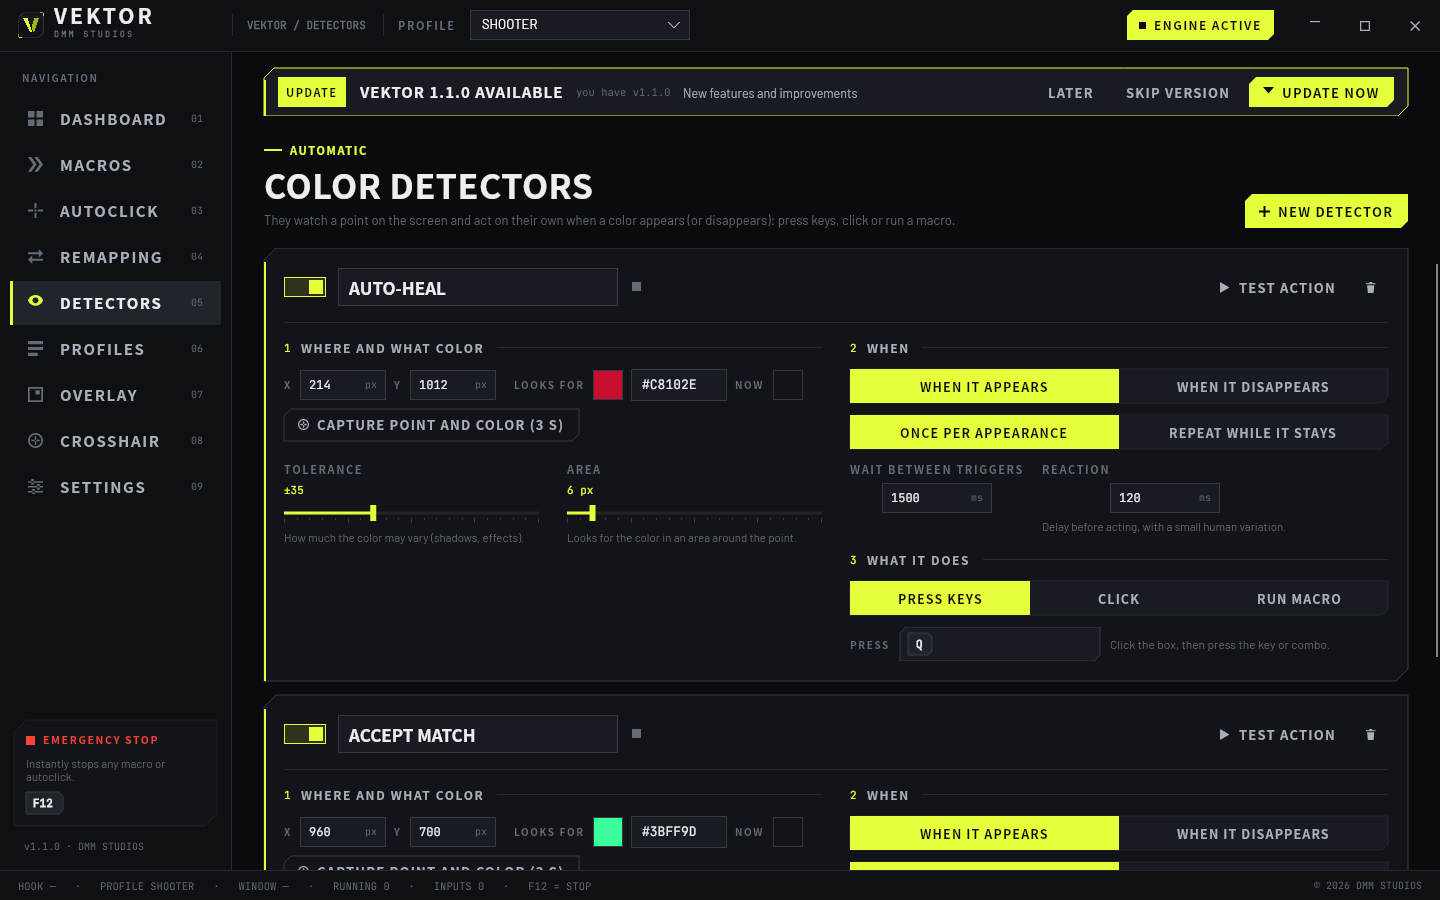
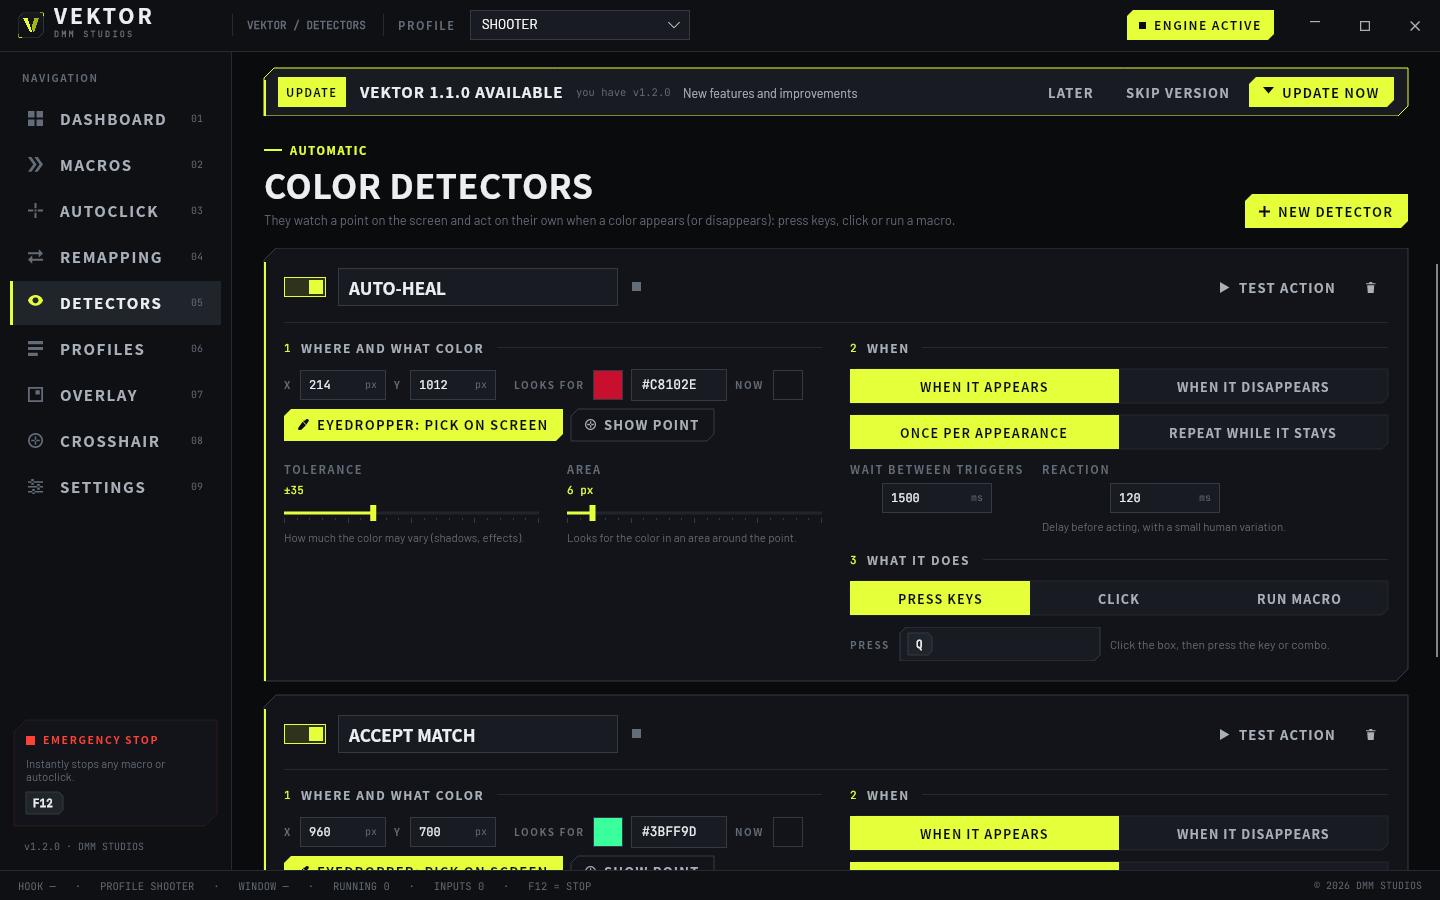
Eyedropper in README

Changed region(s): [[0.1875, 0.4356, 0.5, 0.4978], [0.1875, 0.9333, 0.4062, 0.9644]]

diff --git a/README.es.md b/README.es.md
@@ -40,6 +40,7 @@ VEKTOR **se actualiza solo**: cuando hay una versión nueva, aparece un aviso de
 - **Deshacer/rehacer** y reordenar pasos arrastrando
 - **Grabadora** con tiempos reales y plantillas listas para usar
 - **Detectores de color**: vigilan un punto de la pantalla y pulsan teclas, hacen clic o lanzan una macro cuando un color aparece o desaparece
+- **Cuentagotas** con lupa: congela la pantalla y elige el píxel y el color exactos
 - **Remapeo de teclas y botones** por perfil, botones del **mando** como atajos
 - **Autoclicker** de 1 a 50 CPS con variación humana
 - **Perfiles** por juego que cambian solos, **compartibles por código**
@@ -49,6 +50,7 @@ VEKTOR **se actualiza solo**: cuando hay una versión nueva, aparece un aviso de
 
 ![Macros](img/macros.png)
 ![Detectores](img/detectors.png)
+![Cuentagotas](img/eyedropper.png)
 ![Remapeo](img/remapping.png)
 ![Mira](img/crosshair.png)
 ![Idiomas](img/languages.png)

diff --git a/README.md b/README.md
@@ -40,6 +40,7 @@ VEKTOR **updates itself**: when a new version is out you get a notice inside the
 - **Undo/redo** and drag-and-drop step reordering
 - **Recorder** with real timings and ready-made templates
 - **Color detectors**: watch a point on screen and automatically press keys, click or run a macro when a color appears or disappears
+- **Eyedropper** with magnifier: freeze the screen and pick the exact pixel and color
 - **Key & button remapping** per profile, **controller** buttons as hotkeys
 - **Autoclicker** 1–50 CPS with human variation
 - Per-game **profiles** that switch automatically, **shareable with a code**
@@ -49,6 +50,7 @@ VEKTOR **updates itself**: when a new version is out you get a notice inside the
 
 ![Macros](img/macros.png)
 ![Detectors](img/detectors.png)
+![Eyedropper](img/eyedropper.png)
 ![Remapping](img/remapping.png)
 ![Crosshair](img/crosshair.png)
 ![Languages](img/languages.png)
